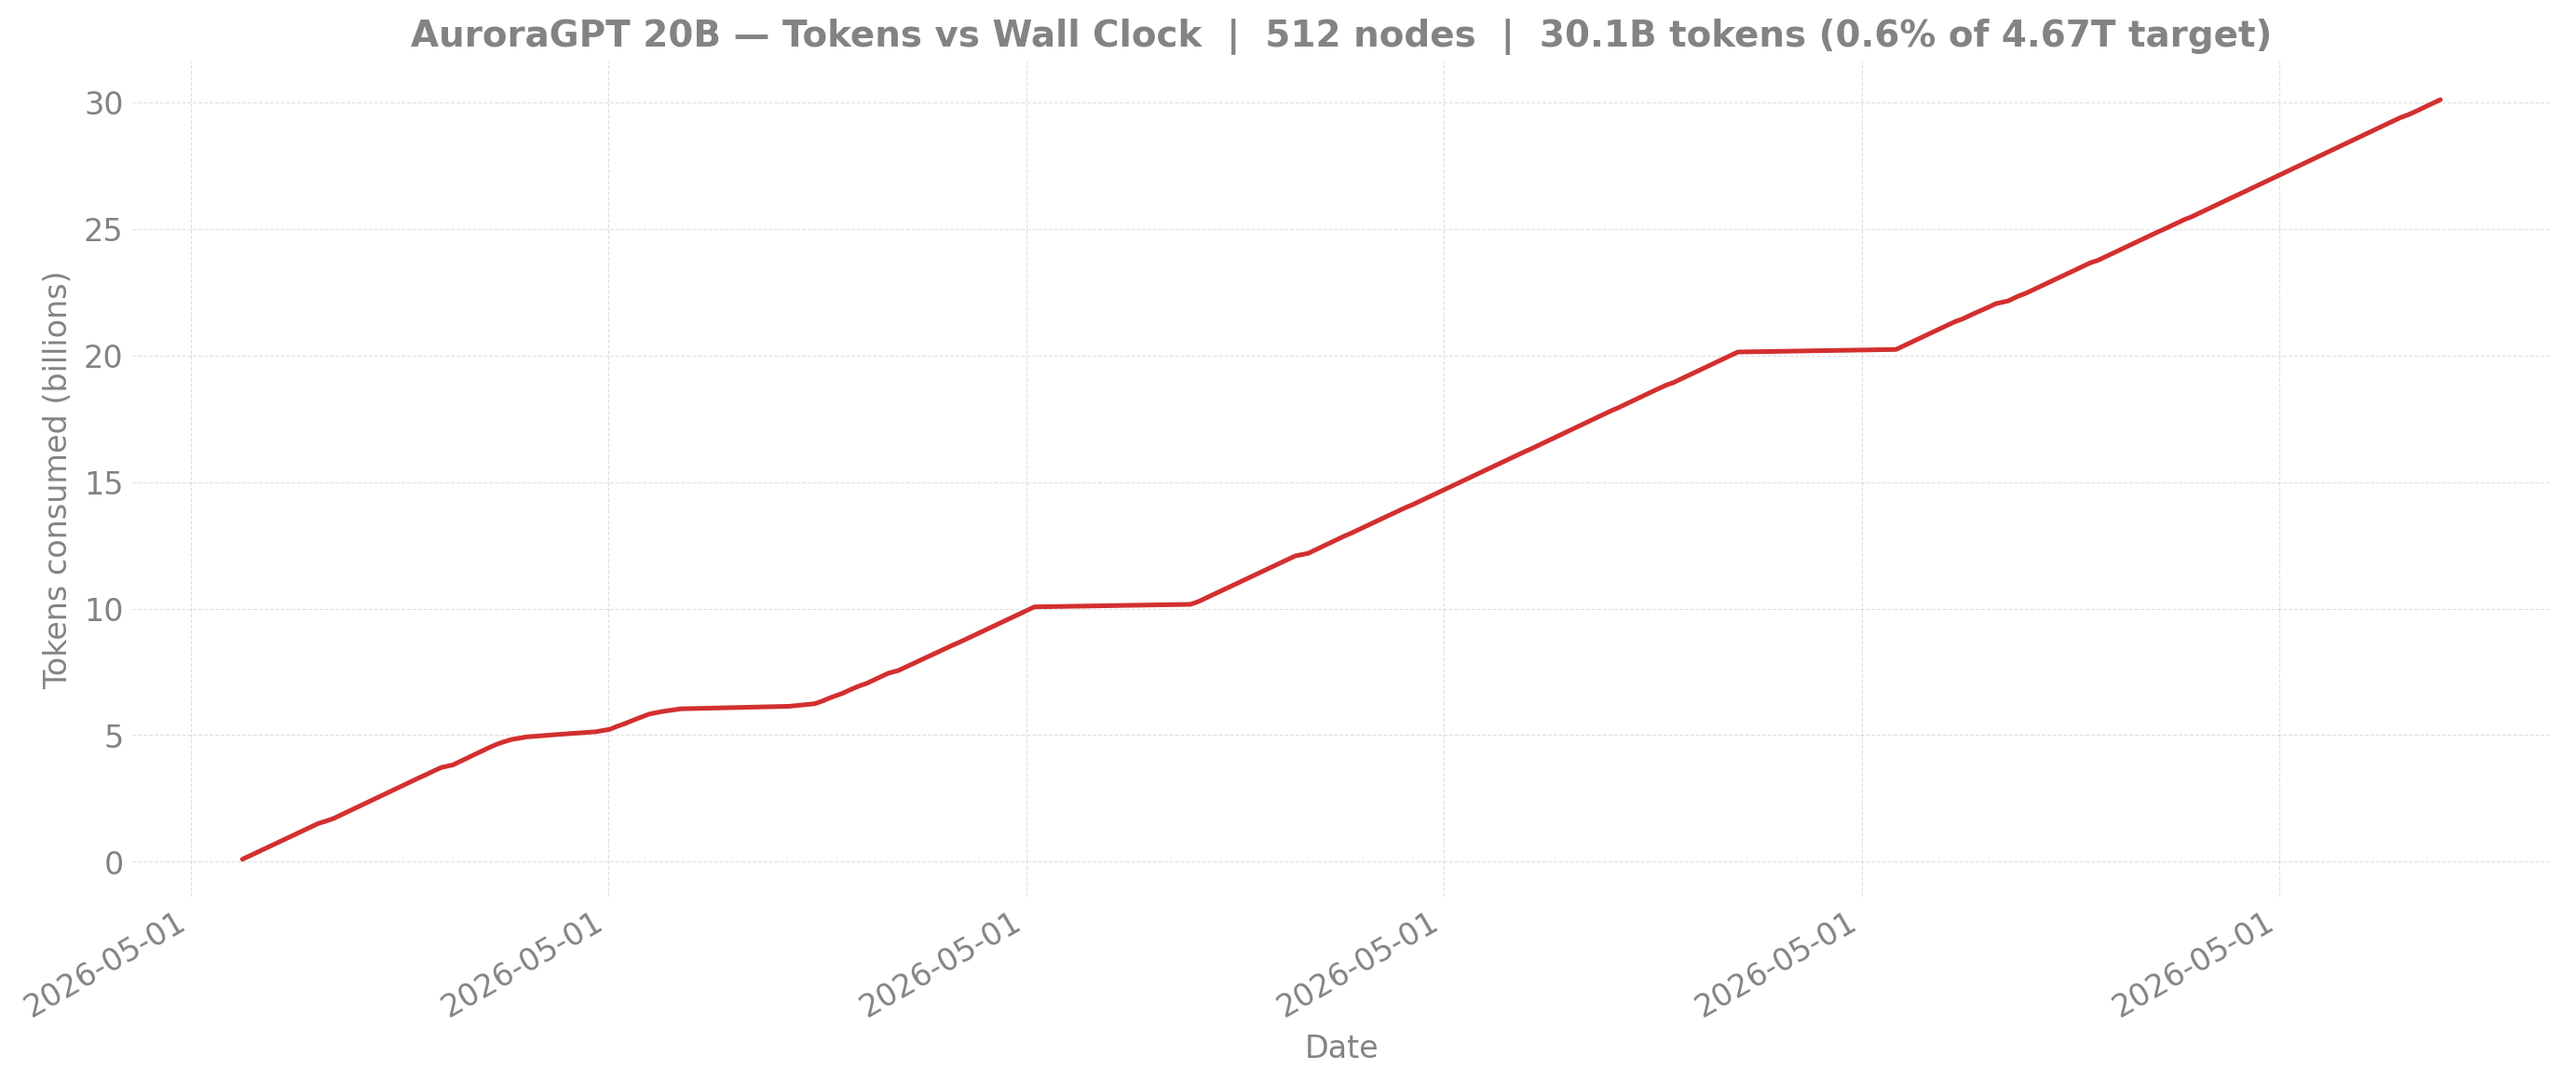
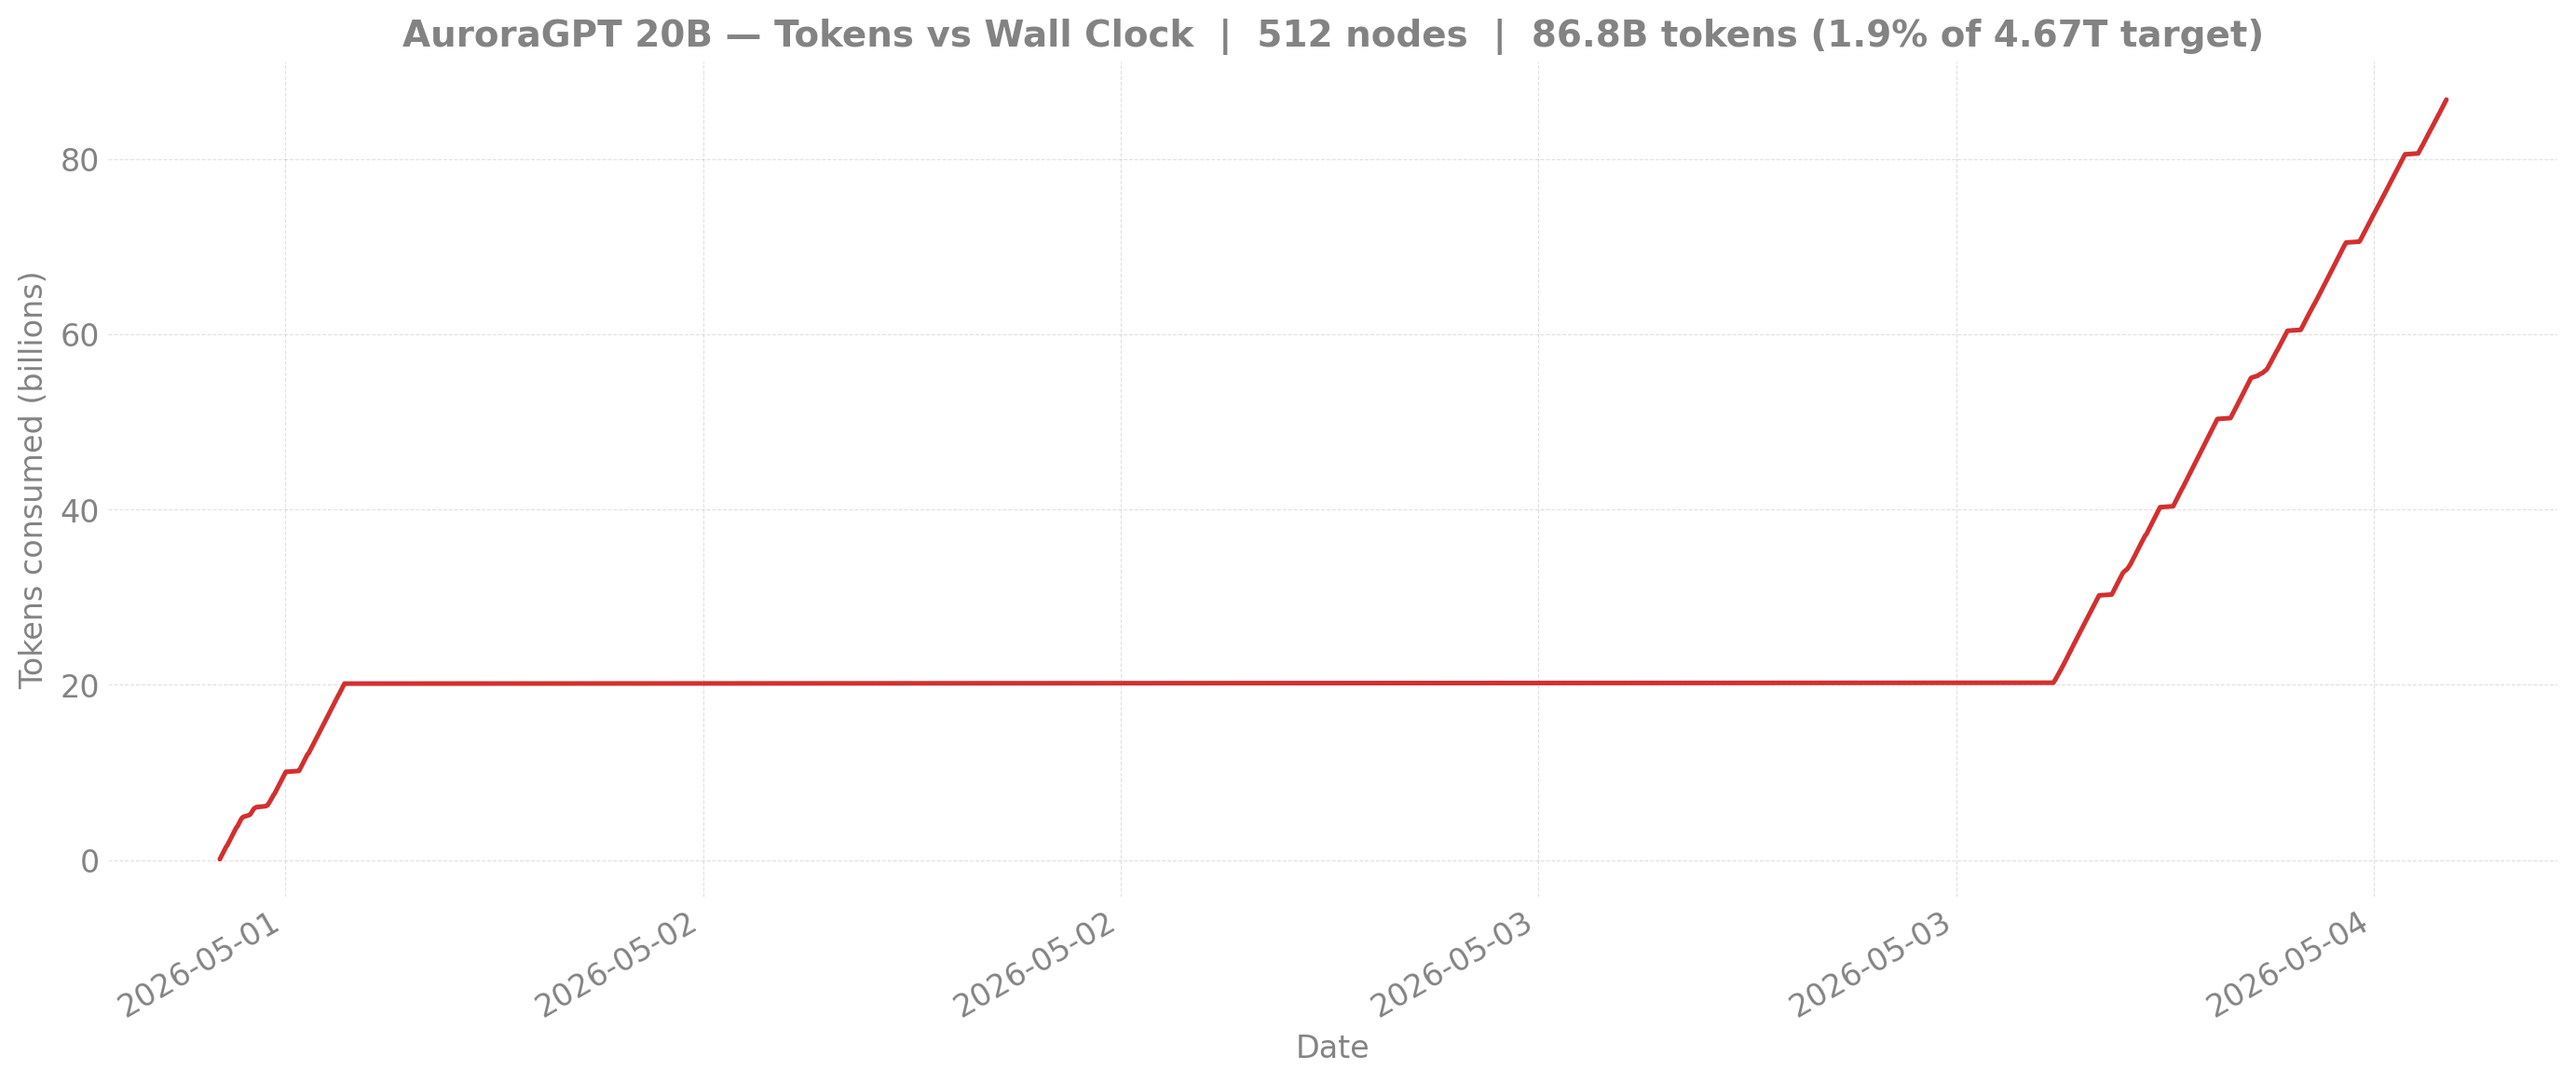
docs(ezpz/production/20b): refresh w/ 8463628 chain progress
20B 512N canonical chain has progressed substantially in the last day:
  step 300 (loss 4.95) -> step 862 (loss 3.47), ~1.5 loss-units in 12h

Updates:
- plot_production_wandb.py: PRODUCTION_RUNS["20b_v2_512"] now lists
  both wandb runs (9tsyx5us = 8460302 + ej3zy5cq = 8463628). Plot
  now shows 862 unique steps.
- production/agpt/{README, 20b/README, 20b/n512/README}.md: bumped
  cumulative numbers from 300/4.95/30B to 862/3.47/87B.
- Re-rendered production_20b_v2_512n.png + diagnostics + tokens-vs-time
  + overlay_20b_v1_vs_v2.png with the new range.

Also queued lm-eval (8467370) for new 20B v2 ckpts step-400 through
step-800 (5 ckpts). Will refresh the v1-vs-v2 evals overlay when those
land in ~5h.

diff --git a/torchtitan/experiments/ezpz/utils/plot_production_wandb.py b/torchtitan/experiments/ezpz/utils/plot_production_wandb.py
@@ -96,7 +96,9 @@ PRODUCTION_RUNS: dict[str, dict] = {
         "model": "2b",
     },
     "20b_v2_512": {
-        "run_ids": ["9tsyx5us"],
+        # 9tsyx5us = 8460302 (initial 6h, step 0->300)
+        # ej3zy5cq = 8463628 (12h chain1, resumed step 200, currently running)
+        "run_ids": ["9tsyx5us", "ej3zy5cq"],
         "num_nodes": 512,
         "model": "20b",
     },

diff --git a/torchtitan/experiments/ezpz/docs/production/agpt/20b/n512/README.md b/torchtitan/experiments/ezpz/docs/production/agpt/20b/n512/README.md
@@ -37,14 +37,14 @@
 | Job ID | Walltime | Steps | Loss (start → end) | TPS/GPU | MFU | Status |
 |--------|---------:|------:|-------------------:|--------:|----:|--------|
 | 8460302 | 6h | 1–300 | 12.94 → 4.95 | ~355 | ~17.7% | Walltime hit (NODE_FAIL at end). 3 ckpts saved. |
-| 8463628 | 12h | 200–500+ | 5.62 → ~4.0 | ~358 | ~17.9% | **Running** (resumed from step-200; step-300/400/500 ckpts saved) |
+| 8463628 | 12h | 200–862+ | 5.62 → **3.47** | ~355 | ~17.8% | **Running** (~12h elapsed, walltime imminent; step-100..800 ckpts saved) |
 | 8466848 | 12h | (cont.) | — | — | — | Held (`afterany:8463628`) |
 
-**Latest checkpoint:** step-400 (244 GB on disk per ckpt)
+**Latest checkpoint:** step-800 (244 GB on disk per ckpt)
 
-**Cumulative steps:** ~500 (more incoming as 8463628 progresses)
+**Cumulative steps:** ~862 (more incoming as 8463628 finishes its walltime; 8466848 then auto-releases)
 
-**Tokens consumed:** ~500 × 12,288 × 8,192 = **~50B tokens** (~1.1% of 4.67T target)
+**Tokens consumed:** ~862 × 12,288 × 8,192 = **~87B tokens** (~1.9% of 4.67T target)
 
 ---
 

diff --git a/torchtitan/experiments/ezpz/docs/production/agpt/20b/README.md b/torchtitan/experiments/ezpz/docs/production/agpt/20b/README.md
@@ -10,7 +10,7 @@
 | Trajectory | Status | Cumulative steps | Loss | Tokens |
 |------------|--------|-----------------:|-----:|-------:|
 | [v1 256N](n256/README.md) (bf16-tainted) | Historical | 2,562 | 4.83 | 64.5B |
-| [**v2 512N**](n512/README.md) (canonical chain) | **Running** | ~500 | ~4.0 | ~50B |
+| [**v2 512N**](n512/README.md) (canonical chain) | **Running** | **862** | **3.47** | **87B** (1.9%) |
 | [v2 1024N](n1024/README.md) | Queued, no data yet | — | — | — |
 | 20B v2 256N | Queued (8463659), no data yet | — | — | — |
 
@@ -39,6 +39,7 @@ python3 torchtitan/experiments/ezpz/utils/plot_production_wandb.py --overlay 20b
 
 See [`docs/evals/agpt/20b/`](../../../evals/agpt/20b/README.md) for
 the v1-vs-v2 lm-eval comparison. Currently 3 v2 ckpts evaluated
-(steps 100/200/300, 10-30B tokens) — ARC-Easy starting to lift
+(steps 100/200/300, 10-30B tokens; eval for steps 400-800 in flight as
+8467370) — ARC-Easy starting to lift
 (0.271 → 0.289 → 0.295) above v1's flat ~0.27 baseline. Other tasks
 still in noise; will revisit at higher token counts.

diff --git a/torchtitan/experiments/ezpz/docs/production/agpt/README.md b/torchtitan/experiments/ezpz/docs/production/agpt/README.md
@@ -31,9 +31,10 @@ extensions.
 | Job ID | Walltime | Steps | Loss | Status |
 |--------|---------:|------:|-----:|--------|
 | 8460302 | 6h | 1–300 | 12.94 → 4.95 | Done (NODE_FAIL @ end). 3 ckpts saved. |
-| 8463628 | 12h | 300+ | (resuming) | **Running** (auto-resumes from step-300) |
+| 8463628 | 12h | 200–862+ | 5.62 → **3.47** | **Running** (~12h elapsed, walltime imminent; step-100..800 ckpts saved) |
+| 8466848 | 12h | (cont.) | — | Held (`afterany:8463628`) |
 
-**Latest cumulative**: step **300** · loss **4.95** · **30B tokens** (0.6% of 4.67T target).
+**Latest cumulative**: step **862** · loss **3.47** · **87B tokens** (1.9% of 4.67T target).
 
 ## Other queued jobs (independent ckpt trajectories, NOT canonical chain)
 
